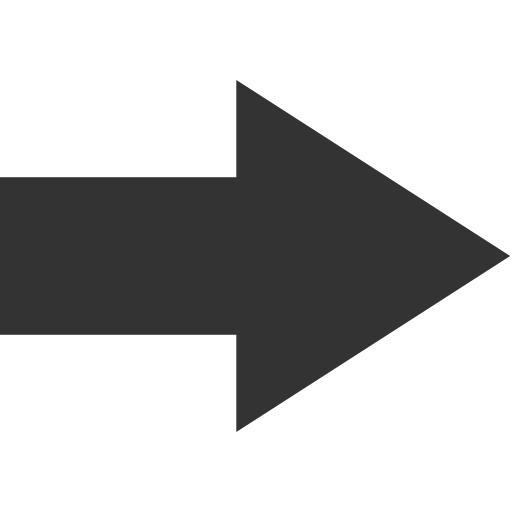
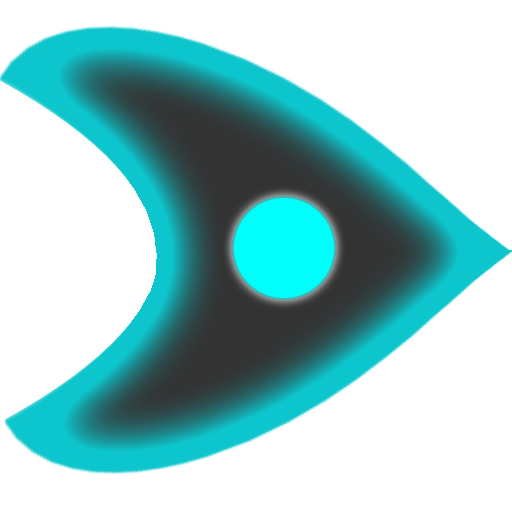
Updated graphics and corrected error in detector animation scale

diff --git a/main.html b/main.html
@@ -85,50 +85,22 @@ Your output will appear here!
 
 
 <div id = "Instructions" class="tabcontent">
-<textarea style="border: none" cols="40" rows="40">
+<textarea style="border: none" cols="80" rows="40">
 Probe commands:
 
-probe.forward(##) 			: moves the probe forward by ## units
-probe.back(##)    			: moves the probe backward by ## units
-probe.left(##)    			: turns the probe ## degrees to its left
-probe.right(##)   			: turns the probe ## degrees to its right
-probe.detect("infection")	: detects infection within 50 units of the probe
-probe.detect("damage")		: detects bone damage within 50 units of the probe
-probe.detect("pressure")	: detects pressure buildup within 50 units of the probe
-probe.fuse()				: repairs bone damage within 50 units of the probe
-probe.cleanse()				: cleanses infection within 50 units of the probe
-probe.mark(##)				: marks the probe's location with signal code ##
-probe.laser([true/false])	: Will turn on or off the laser used to relieve pressure
-probe.suture([true/false])	: Will turn on or off the suture used to close a laser incision
-probe.reinforce()			: Reinforces the surrounding tissue biochemically
-
-Warnings:
-* Cleansing an area that has no infection may weaken your patient's immune system
-
-* Fusing a bone that is already whole may seriously injure your patient.
-* Fusing a bone while an infection is present will seal the infection into the bone
-and will put your patient's health into serious risk
-
-* Detecting pressure will report a score between 10 and 200
-* Pressure above acceptable limits signals buildup and should be relieved using the laser
-*(The following chart can be used to identify if pressure is correct:
-	Systolic Artery: 	100-140
-	Diastolic Artery: 	60-90
-	Vein:			  	3-7
-	Arterial Capilary:	30
-	Venous Capilary:	10
-	Middle Ear:			0-1
-	Eye:				20
-	Brain:				5-12
-	Gastrointestinal:	10-20
-	Intrathoracic:		-10
- )
- 
-* Pressure below acceptable limits signals weakened tissue and should be reinforced
-* Reinforcing strong tissue can cause the tissue to be too stiff to work effectively
-
-* You must suture any area that is opened by the laser to avoid life-threatening infections
-* You must cleanse any area that is opened by the laser before suturing to avoid sealing infections
+probe.forward(##)        : moves the probe forward by ## units
+probe.back(##)           : moves the probe backward by ## units
+probe.left(##)           : turns the probe ## degrees to its left
+probe.right(##)          : turns the probe ## degrees to its right
+probe.detect("infection"): detects infection within 50 units of the probe
+probe.detect("damage")   : detects bone damage within 50 units of the probe
+probe.detect("pressure") : detects pressure buildup within 50 units of the probe
+probe.fuse()             : repairs bone damage within 50 units of the probe
+probe.cleanse()          : cleanses infection within 50 units of the probe
+probe.mark(##)           : marks the probe's location with signal code ##
+probe.laser([true/false]): Will turn on or off the laser used to relieve pressure
+probe.suture([true/false]): Will turn on or off the suture used to close a laser incision
+probe.reinforce()        : Reinforces the surrounding tissue biochemically
 </textarea><br /> 
 </div>
 
@@ -180,8 +152,8 @@ and will put your patient's health into serious risk
 	var t;
 	var commands = [];
 	var problems = [];
-	var screenWidth = 500;
-	var screenHeight = 500;
+	var screenWidth = 510;
+	var screenHeight = 510;
 	var evaluating = false;
 	var setupComplete = false;
 	//stage container
@@ -221,6 +193,7 @@ and will put your patient's health into serious risk
 			this.backskin = new PIXI.Sprite(PIXI.loader.resources["arm.png"].texture);
 			this.mask = new PIXI.Sprite(PIXI.loader.resources["circle.png"].texture);
 			this.grid = new PIXI.Sprite(PIXI.loader.resources["grid.png"].texture);
+			this.grid.alpha = 0.3;
 			//Adding the detector pulse animation
 			var detectArray = [];
 			for(var i = 1;i <= 25;i++)
@@ -230,7 +203,7 @@ and will put your patient's health into serious risk
 			this.detector.loop = true;
 			this.detector.visible = false;
 			this.detector.anchor.set(0.5);
-
+			this.detector.scale.set(20,20);
 			this.maxDetect = 50;
 			this.mask.anchor.set(0.5);
 			this.mask.x = 250;
@@ -468,10 +441,21 @@ and will put your patient's health into serious risk
 		console.log("Analyzing code");
 		div = editor.getValue();
 		//console.log(div);
-		var syntax = esprima.parse(div);
-		console.log(syntax);
-		//
-		document.getElementById("outputcode").innerHTML = JSON.stringify(syntax);
+		var syntax;
+		try{
+			syntax = esprima.parse(div, {tolerant : true});
+		}catch(err){
+			syntax = {};
+			syntax.errors = err.message;
+		}
+		if(syntax.errors == null
+		|| syntax.errors.length == 0)
+		{
+			document.getElementById("outputcode").innerHTML = "No errors detected.";
+		}else{
+			document.getElementById("outputcode").innerHTML = syntax.errors;
+		}
+		
 		editor.getDoc().setValue(escodegen.generate(syntax));		
 		console.log(editor.getValue());
 	}
